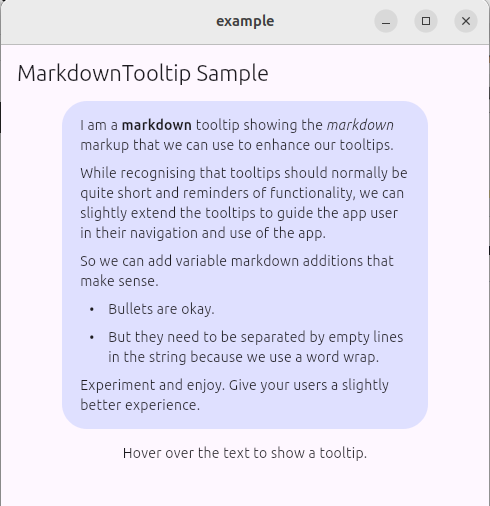
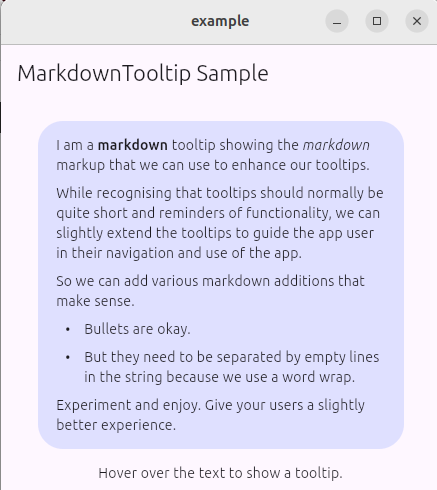
Typos

diff --git a/example/lib/main.dart b/example/lib/main.dart
@@ -39,7 +39,7 @@ class MarkdownTooltipSample extends StatelessWidget {
       reminders of functionality, we can slightly extend the tooltips to guide
       the app user in their navigation and use of the app.
 
-      So we can add variable markdown additions that make sense.
+      So we can add various markdown additions that make sense.
 
       + Bullets are okay.
 

diff --git a/README.md b/README.md
@@ -55,10 +55,8 @@ ElevatedButton(
 
 The tooltip has a delay by default to avoid cluttering our apps.
 
-You can contribute to this package and rreport issues through the
+You can contribute to this package and report issues through the
 [github](https://github.com/gjwgit/markdown_tooltip) repository. 
-
-We attempt to respond to issues within 5 days.
 
 Text selection and URL links are not yet supported. Contributions are
 welcome.
